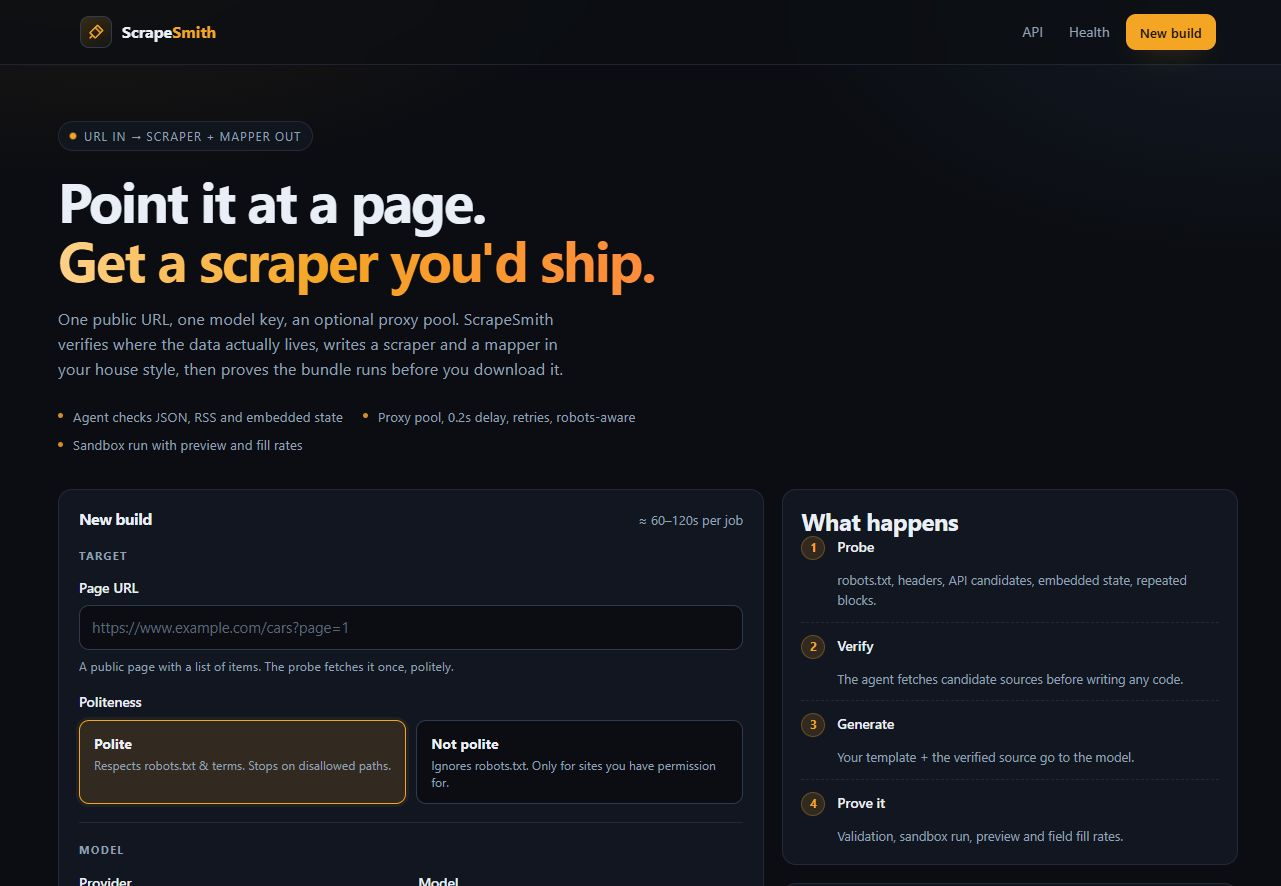
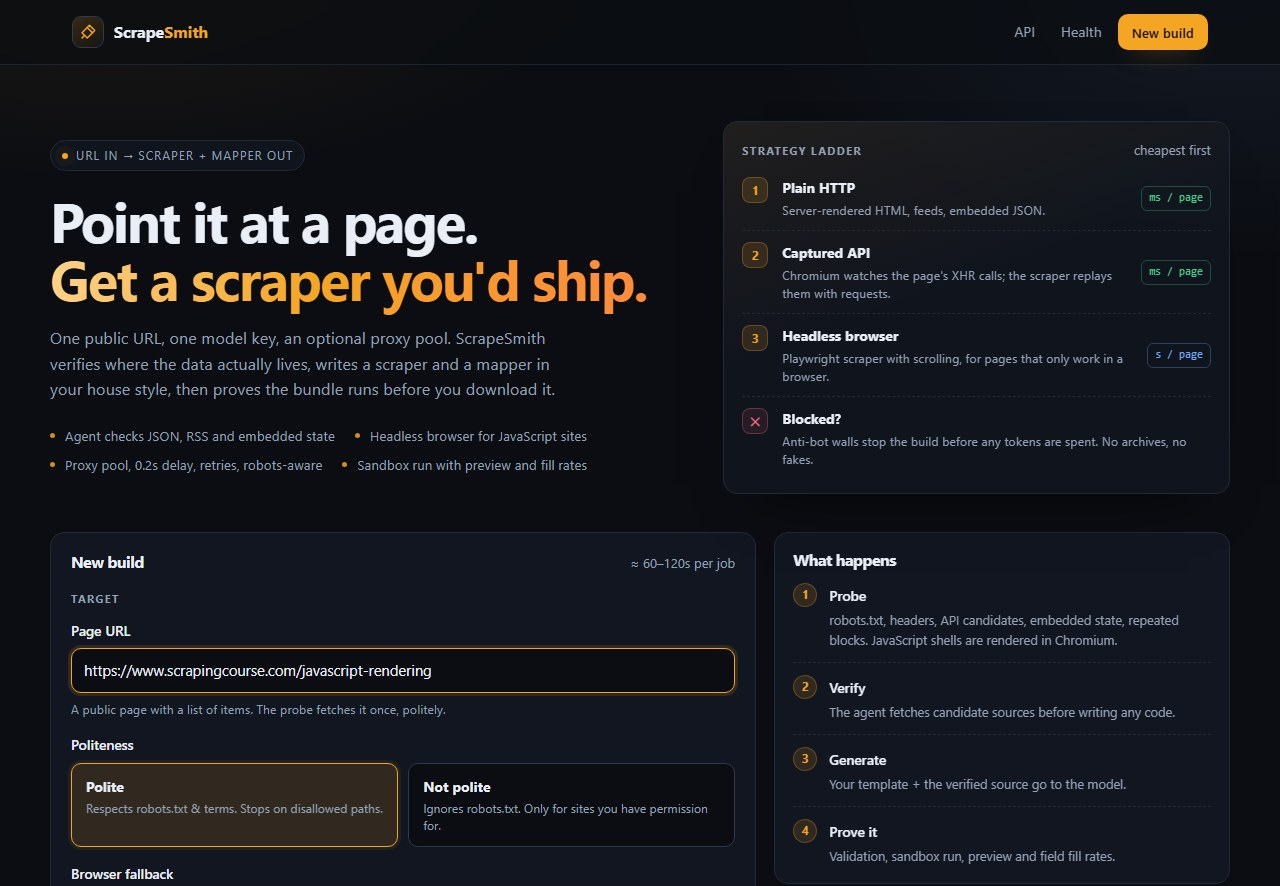
Document the browser fallback and refresh screenshots
README, architecture, bundle contract, ADR 11 (supersedes "no headless
browser"), evaluation with real-model results, agent guide and changelog.

diff --git a/README.md b/README.md
@@ -5,7 +5,7 @@
 [![CI](https://github.com/mihajlodjurovic/scrapesmith/actions/workflows/ci.yml/badge.svg)](https://github.com/mihajlodjurovic/scrapesmith/actions/workflows/ci.yml)
 ![Python](https://img.shields.io/badge/python-3.11%2B-3776AB?logo=python&logoColor=white)
 ![FastAPI](https://img.shields.io/badge/FastAPI-async-009688?logo=fastapi&logoColor=white)
-![Tests](https://img.shields.io/badge/tests-60%20passing-46d18c)
+![Tests](https://img.shields.io/badge/tests-114%20passing-46d18c)
 ![License](https://img.shields.io/badge/license-MIT-f5a524)
 
 ScrapeSmith is a local web app that turns a public page into a runnable Python
@@ -201,6 +201,36 @@ verified source, cost and the exact error if one occurred. Agent guides:
 [AGENTS.md](AGENTS.md) · [workflow](docs/AGENT-WORKFLOW.md) ·
 [bundle contract](docs/BUNDLE-CONTRACT.md).
 
+## Client-side rendered sites (browser fallback)
+
+Many sites send an empty `<div id="root">` and load their data with JavaScript.
+With the optional Playwright extra, ScrapeSmith handles them in three strategies,
+cheapest first:
+
+```text
+1. HTTP     plain requests bundle; if the probe looks like a JS shell, the page is
+            first rendered in headless Chromium and the model sees the result
+2. API      if HTTP failed, the browser's captured XHR/fetch JSON responses are
+            replayed with requests (no browser needed at run time)
+3. BROWSER  last resort: a Playwright scraper with the same contract, CLI,
+            proxy pool and JSONL output
+```
+
+```bash
+pip install -r requirements-browser.txt
+python -m playwright install chromium
+```
+
+The render records the JSON endpoints the page calls (method, URL, body, safe
+headers, item count and path). Cookies and auth headers are reported by name
+only and never reach the model. Every request the browser makes, including each
+redirect hop, goes through the same SSRF guard as the plain probe. No stealth
+plugins, no CAPTCHA solving.
+
+Choose `Browser fallback` in the form (`auto`, `always`, `off`), set
+`SCRAPESMITH_BROWSER`, or pass `--browser` to `scripts/build.py`. The job summary
+records the winning `strategy` and `render_seconds`.
+
 ## Politeness modes
 
 | Mode | Behaviour |
@@ -242,7 +272,15 @@ A bundle is rejected before execution if it:
 - contains Mongo/proxy/API credentials or `verify=False`;
 - misses `fetch_page`, `parse_items`, `request`, `run`, `main`, `map_listing`;
 - drops a field from `CANONICAL_KEYS`;
-- has a `runner.sh` that does not run both scripts.
+- has a `runner.sh` that does not run both scripts;
+- gets its data anywhere but the target site: web archives, search engines,
+  caches and scraping APIs are rejected, and other foreign hosts are allowed only
+  when the rendered page itself called them.
+
+A site that answers with an anti-bot challenge (for example a Cloudflare
+"just a moment" page with `403`) stops the build before any model call unless
+you supply proxies. A blocked build fails honestly; it never "succeeds" on stale
+copies of the page.
 
 The sandbox then:
 
@@ -275,11 +313,20 @@ The sandbox then:
 | `SCRAPESMITH_REASONING_EFFORT` | `low` | Keeps tokens for code |
 | `SCRAPESMITH_LLM_HEADERS` | — | Extra request headers as JSON, for gateways that require them |
 | `SCRAPESMITH_ALLOW_PRIVATE` | `0` | Allow local hosts (testing only) |
+| `SCRAPESMITH_LLM_RETRY_MAX_TOKENS` | `32000` | One retry budget when a thinking model returns only reasoning |
+| `SCRAPESMITH_PROXY_CHECK_LIMIT` | `0` | Proxies tested on an anti-bot wall before the model (0 = all) |
+| `SCRAPESMITH_PROXY_CHECK_CONCURRENCY` | `8` | Proxies tested at once |
+| `SCRAPESMITH_PROXY_CHECK_TIMEOUT` | `12` | Per-proxy timeout (s) |
+| `SCRAPESMITH_BROWSER` | `auto` | Browser fallback: `auto`, `always` or `off` |
+| `SCRAPESMITH_RENDER_TIMEOUT` | `45` | Headless render limit (s) |
+| `SCRAPESMITH_BROWSER_SANDBOX_TIMEOUT` | `300` | Proof-run limit for browser bundles (s) |
 
 ## Limitations
 
-- **No headless browser.** JavaScript shells are handled through structured
-  siblings, not rendering. Sites with neither are out of reach in v1.
+- **Browser fallback is optional.** Client-side rendered sites need the
+  Playwright extra; without it, JavaScript shells are handled only through
+  structured siblings (feeds, JSON). Login walls and CAPTCHAs stay out of reach
+  by design.
 - **Chat Completions only.** Models that require the Responses API need an
   adapter. The agent tool protocol is text or JSON, not native function calling.
 - **The sandbox is a guardrail, not a jail.** Generated code runs with a timeout
@@ -308,7 +355,7 @@ The sandbox then:
 ## Roadmap
 
 - [ ] MCP server exposing `build`, `validate` and `scaffold` as tools
-- [ ] Playwright fallback behind a flag, same bundle contract
+- [x] Playwright fallback behind a flag, same bundle contract
 - [ ] Recipe mode: emit a declarative selector spec before code
 - [ ] Scheduled re-runs with schema-drift diffs
 - [ ] Per-domain rate limiter shared across jobs

diff --git a/CHANGELOG.md b/CHANGELOG.md
@@ -1,5 +1,56 @@
 # Changelog
 
+## Unreleased
+
+Browser fallback for client-side rendered sites.
+
+- Optional Playwright extra (`requirements-browser.txt`). When the probe looks
+  like a JavaScript shell, the page is rendered in headless Chromium and the
+  model sees the rendered DOM plus every JSON response the page fetched.
+- The browser reference scraper scrolls infinite lists until they stop growing,
+  with its own scroll budget (`SCRAPESMITH_MAX_SCROLLS`).
+- Strategy order: plain HTTP → replay of a captured JSON API with requests →
+  Playwright scraper (`app/reference/scraper_browser.py`, same contract).
+- Browser setting in the form, `SCRAPESMITH_BROWSER` and `--browser`; job summary
+  and `result.json` report `strategy` and `render_seconds`.
+- All browser requests and redirect hops pass the SSRF guard; cookies and auth
+  headers are never shown to the model; stealth/evasion packages are rejected.
+- The browser starts only when plain HTTP failed on missing data (or the page
+  is a shell), never because the model failed validation.
+- Secret scan ignores placeholder credentials in docs (`mongodb://user:pass@...`).
+- Sandbox clears `raw.jsonl`/`mapped.jsonl` before each run so a previous
+  attempt can never count as proof.
+
+No fake successes on blocked sites.
+
+- Builds stop before any model call when the site answers with an anti-bot
+  challenge and no proxies were given (a real-browser render is tried first).
+- The validator rejects bundles that take data from archives, search engines,
+  caches or scraping APIs, or from foreign hosts the page never called.
+- Prompt rule 12: report a block, never route around it.
+- With proxies, an anti-bot wall is checked through every proxy in the list
+  (plain GETs, 8 at a time, stops at the first one that gets through) before any
+  model call; if all are challenged the build stops. Tunable with
+  `SCRAPESMITH_PROXY_CHECK_LIMIT`, `_CONCURRENCY` and `_TIMEOUT`.
+- The headless render runs at most once per job and reports every route it tried.
+- Pasted proxy lists like `[host:port:user:pass ...]` (not valid JSON) parse cleanly.
+- A thinking model that spends its whole budget reasoning gets one retry with
+  `SCRAPESMITH_LLM_RETRY_MAX_TOKENS` (32000).
+- Job logs no longer crash on consoles that cannot encode the message (Windows
+  cp1252).
+
+Security hardening.
+
+- SSRF guard now re-checks every request hop, so a public page can no longer
+  redirect the probe or the agent's fetch tool to a private, loopback or
+  metadata address. The agent's fetch tool is now covered by the guard, so a
+  same-site subdomain that resolves to a private IP is refused.
+- Bundles may only contain `scraper.py`, `mapper.py`, `runner.sh`, `README.md`,
+  `requirements.txt` (and notes). Extra modules such as `helper.py` or
+  `sitecustomize.py` are rejected and never written to the sandbox directory.
+- `SCRAPESMITH_API_KEY` is only sent to `SCRAPESMITH_BASE_URL` or a preset
+  endpoint; a custom base URL requires a key pasted with the job.
+
 ## 0.1.0 — 2026-11-01
 
 First public version.

diff --git a/docs/ARCHITECTURE.md b/docs/ARCHITECTURE.md
@@ -20,6 +20,7 @@ browser ──HTTP──► FastAPI ──► discovery (ssrf-guarded) ──►
 | `app/routes/pages.py` | Server-rendered UI shell |
 | `app/pipeline.py` | State machine: discover → verify/generate → validate → run → repair |
 | `app/cli.py` | Functions behind the agent-facing build/validate/scaffold scripts |
+| `app/render.py` | Optional headless Chromium render: captured XHR/fetch JSON, rendered DOM, SSRF-guarded routing |
 | `app/discovery.py` | One polite probe: robots, headers, API candidates, embedded state, repeated blocks, skeleton |
 | `app/agent.py` | Bounded tool loop; the model may fetch candidate sources before writing code |
 | `app/prompt.py` | Reference bundle + schema + probe → prompt; candidate URL list |
@@ -79,6 +80,39 @@ Selectors are not guessed by string matching; repeated blocks are found by
 grouping direct siblings on `(tag, class tuple)` and scoring by count × link
 density. That is why the report can say "20 items under `article.listing`"
 without knowing the site.
+
+## Browser fallback
+
+Optional (Playwright extra, `SCRAPESMITH_BROWSER=auto|always|off`). The
+pipeline runs up to three strategies, each with its own repair rounds:
+
+```text
+probe ──► looks like a JS shell? ──yes──► render (Chromium) ─┐
+  │                                                          ▼
+  └──────────────────────────────────────────────► 1. http   requests bundle
+                                                     │ fail
+                     render now (if not done yet) ◄──┘
+                                │
+              captured JSON API? ──yes──► 2. api      requests replay of that endpoint
+                                │                      │ fail
+                                └──────────────────► 3. browser  Playwright bundle
+```
+
+`render.render()` loads the page with images/fonts/media blocked, waits for
+network idle, scrolls twice, and records XHR/fetch responses. `render.analyze()`
+turns that into `probe["rendered"]`: `network` (URL, method, body, safe headers,
+`item_count`, `list_path`, `item_keys`), `repeat_blocks`, `json_ld` and a DOM
+skeleton. Cookie and auth header values are dropped; only their names remain.
+
+A Playwright route handler checks every request against the SSRF guard. Chromium
+does not route redirect hops, so for documents, XHR/fetch and scripts the handler
+follows redirects itself (`route.fetch(max_redirects=0)`), checks each hop and
+fulfils only the final response.
+
+The agent's fetch tool may also verify hosts the browser saw the page call (for
+example a third-party search API). Browser bundles are validated with
+`browser=True` (Playwright allowed, `playwright` required in requirements) and
+proved with `SCRAPESMITH_BROWSER_SANDBOX_TIMEOUT`.
 
 ## Agent protocol
 

diff --git a/docs/BUNDLE-CONTRACT.md b/docs/BUNDLE-CONTRACT.md
@@ -37,7 +37,8 @@ Also required:
 - one JSON object per line in `--out`, no wrapper array;
 - each raw item may carry `_meta` with `source`, `page`, `scraped_at`;
 - API-first: JSON or embedded state before DOM parsing;
-- no hardcoded credentials, no `verify=False`, no browser automation.
+- no hardcoded credentials, no `verify=False`, no browser automation (except
+  in the browser build below).
 
 Rejected imports: `subprocess`, `socket`, `ctypes`, `pickle`, `shutil`,
 `multiprocessing`. Rejected calls: `eval`, `exec`, `compile`, `os.system`,
@@ -126,3 +127,33 @@ as cwd. Zero mapped rows means the bundle is not done.
 2. One page produces at least one mapped record.
 3. The bundle README names the data source and the main assumption.
 4. No secrets, no `proxies.json`, no `data/` in git.
+
+## Browser build (client-side rendered sites)
+
+Produced only when plain HTTP and the captured-API replay both failed. It follows
+`app/reference/scraper_browser.py` and keeps the same contract, with these
+differences:
+
+- `request(browser, pool, url)` renders one URL in headless Chromium and returns
+  `{"url", "html", "json": [captured payloads]}`; `fetch_page(browser, pool, page)`
+  calls it. `run()` owns the Playwright lifecycle.
+- `API_PATTERN` selects captured JSON responses; `WAIT_SELECTOR`/`CARD_SELECTOR`
+  drive the rendered-DOM fallback.
+- `requirements.txt` lists `playwright` and `beautifulsoup4`; users run
+  `python -m playwright install chromium` once.
+- `scroll_until_stable(page)` handles infinite scroll: it scrolls until the item
+  count stops growing (`SCRAPESMITH_MAX_SCROLLS`, `_SCROLL_PAUSE`, `_SCROLL_STALLS`,
+  `_MAX_ITEMS`), independent of `--max-pages`. Set `INFINITE_SCROLL = False` for
+  classic `?page=N` pagination.
+- Proxies are applied per browser context; images, media and fonts are blocked.
+- Never allowed, in any build: `selenium`, `pyppeteer`, `playwright_stealth`,
+  `undetected_chromedriver`, CAPTCHA solving, logins.
+
+## Data source
+
+The data must come from the target site (its registrable domain, including
+subdomains) or from an endpoint the rendered page itself called. The validator
+rejects any bundle that references web archives, search engines, caches,
+translation proxies or scraping APIs, and any other foreign host the page did not
+call. When every route is blocked, the scraper writes zero records and NOTES say
+why; the build then fails instead of shipping stale data.

diff --git a/AGENTS.md b/AGENTS.md
@@ -45,6 +45,10 @@ Useful flags:
 - `--proxies path-or-json` — a file, JSON array, or newline list.
 - `--model`, `--base-url`, `--provider` — override the provider preset.
 - `--out DIR` — copy the finished bundle (never copies `proxies.json`).
+- `--browser auto|always|off` — headless-browser fallback for JavaScript-rendered
+  pages (needs `pip install -r requirements-browser.txt` and
+  `python -m playwright install chromium`). `result.json` reports the winning
+  `strategy`: `http`, `api` (captured JSON replayed with requests) or `browser`.
 
 ## Path B — scaffold + hand-write
 
@@ -86,7 +90,9 @@ If the sandbox produced zero records, inspect in this order:
   `robots.txt` disallows the path, stop and tell the user; only switch to
   `unrestricted` with explicit permission.
 - **No bypass.** Never add logins, CAPTCHA solving, paywall circumvention or
-  private-data collection.
+  private-data collection. Never fetch the data from archives (archive.org),
+  search engines, caches or scraping APIs when the site blocks you — report the
+  block instead; the validator rejects such bundles.
 - **No secrets.** API keys live in `.env`; proxy credentials in `proxies.json`.
   Never commit either, never print them, never copy `proxies.json` into a
   deliverable.
@@ -100,6 +106,7 @@ If the sandbox produced zero records, inspect in this order:
 
 | Path | Purpose |
 |---|---|
+| `app/render.py` | Headless Chromium render: captured XHR/fetch JSON, rendered DOM, SSRF-guarded routing |
 | `app/discovery.py` | Polite probe: robots, headers, API candidates, embedded state, repeated blocks, signals |
 | `app/agent.py` | Bounded fetch tool + verify-before-write loop |
 | `app/prompt.py` | Reference bundle + schema + probe → prompt; candidate URL list |
@@ -109,7 +116,7 @@ If the sandbox produced zero records, inspect in this order:
 | `app/reference/` | Golden scraper, mapper, runner, schema — the contract |
 | `app/cli.py` | Functions behind `scripts/build.py`, `validate_bundle.py`, `scaffold_bundle.py` |
 | `docs/` | Architecture, decisions, evaluation, workflow, contract |
-| `tests/` | 60 offline tests; run `pytest -q` before claiming success |
+| `tests/` | 114 tests (browser tests skip without Playwright); run `pytest -q` before claiming success |
 
 ## Definition of done
 

diff --git a/docs/DESIGN-DECISIONS.md b/docs/DESIGN-DECISIONS.md
@@ -108,7 +108,7 @@ the model is the user's choice.
 limitation. Local models that need no key (Ollama) are supported by leaving the
 key empty.
 
-## 10. No headless browser in v1
+## 10. No headless browser in v1 (superseded by 11)
 
 **Context.** Playwright would cover JavaScript-heavy sites but adds hundreds of
 megabytes, makes runs slow and non-deterministic, and weakens the "fast, polite"
@@ -119,3 +119,22 @@ siblings (RSS/JSON/API) and the limitation is stated in the UI and README.
 
 **Consequences.** Some sites are out of reach, but every successful build is
 reproducible and cheap. A browser fallback remains on the roadmap.
+
+## 11. Browser fallback: capture the API first, render as a last resort
+
+**Context.** Decision 10 left client-side rendered sites out of reach. Most of
+them load their data from a JSON endpoint that the page calls after JavaScript
+runs; a smaller number need a real browser every time (signed requests,
+per-session tokens).
+
+**Decision.** Playwright is an optional extra. The pipeline tries strategies in
+cost order: plain HTTP (with the rendered page attached when the probe looks like
+a shell), then a requests bundle that replays an XHR/fetch endpoint the browser
+captured, and only then a Playwright bundle with the same contract. Every browser
+request, including each redirect hop, is SSRF-checked in a route handler, because
+Chromium does not send redirect hops back through Playwright routing.
+
+**Consequences.** Browser builds are slower (seconds per page instead of
+milliseconds), need a Chromium download, and get a longer proof timeout. In
+exchange, most "JavaScript" sites still end up with a fast requests scraper, and
+`off` reproduces the old behaviour exactly. Decision 10 is superseded.

diff --git a/docs/EVALUATION.md b/docs/EVALUATION.md
@@ -20,6 +20,26 @@ Sites were chosen to span the shapes the tool claims to handle: server-rendered
 HTML, a JavaScript shell with a feed, a real JSON API, and a site whose
 `robots.txt` forbids crawling. Each build starts from a single URL.
 
+## Browser fallback (2026-11-12)
+
+Same model (`deepseek-v4.1-flash`), polite mode, `--browser auto`, 2 repair
+rounds, no manual fixes. The two forced rows replace earlier strategies with a
+simulated failure to exercise the later ones with the real model.
+
+| Target | Shape | Strategy that won | Records | Cost | Rounds |
+|---|---|---|---:|---:|---:|
+| `books.toscrape.com` | static HTML (regression) | http | 20 / 20 | $0.0068 | 1 |
+| `quotes.toscrape.com/scroll` | infinite scroll, XHR `/api/quotes` | http, replaying the captured API | 10 / 10 | $0.0056 | 1 |
+| `quotes.toscrape.com/js/` | data in an inline JS variable | http, parsing the script | 10 / 10 | $0.0063 | 1 |
+| local CSR test site (`tests/csr_site.py`) | empty `#root`, `fetch('/api/items')` | http, replaying the captured API | 8 / 8 | $0.0048 | 1 |
+| local CSR test site, http forced to fail | same | browser (Playwright bundle) | 8 / 8 | $0.0069 | 1 |
+
+On every client-side site the early render handed the model the endpoint the
+page calls, so the cheap requests bundle won; the Playwright bundle is the last
+resort and also passed on its first round when forced. Before the placeholder
+fix in the secret scanner, `books.toscrape.com` needed two extra repair rounds
+because the model's README showed `mongodb://user:pass@...` as an example.
+
 ## Results
 
 | Target | Shape | Mode | Outcome | Records | Cost | Source chosen |
